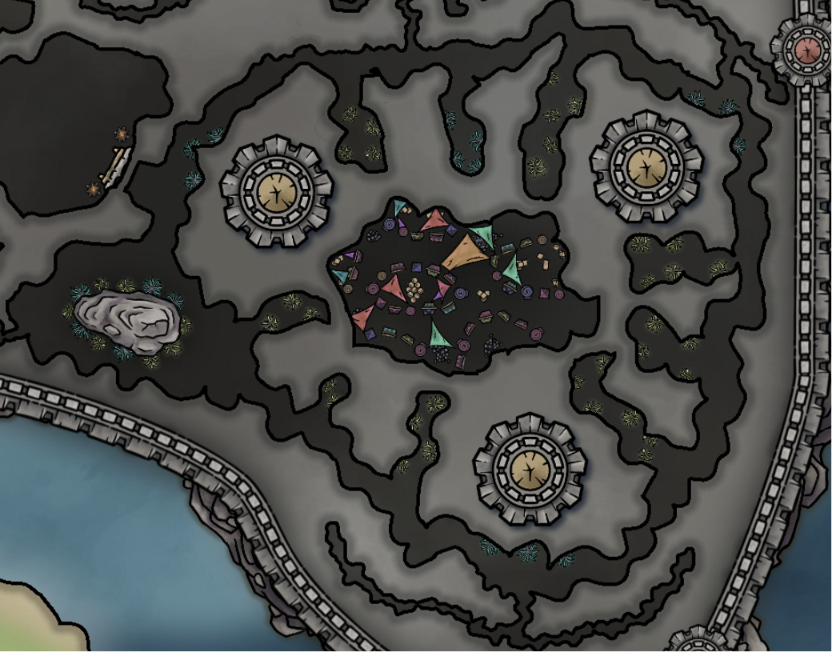
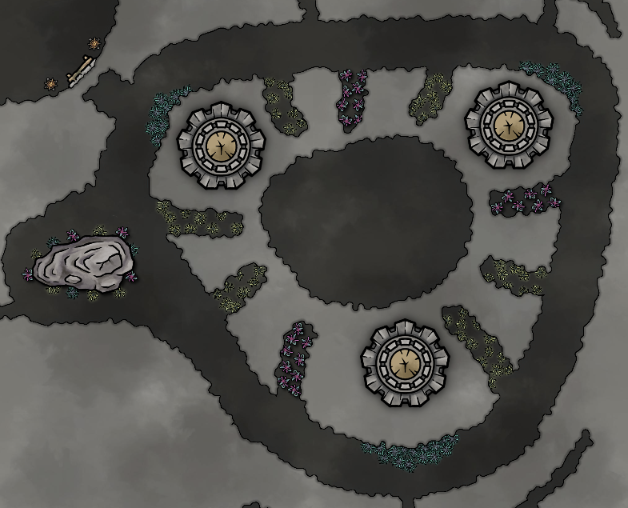
Updated "Clock" puzzle notes

diff --git a/Roll for Resilience/Unique Mechanics/The Collapse of Central Stage/Clock Puzzle.md b/Roll for Resilience/Unique Mechanics/The Collapse of Central Stage/Clock Puzzle.md
@@ -1,8 +1,43 @@
 ## Description
-Within the [[Eastern Tunnel System]] of the [[Nervios Tunnels]], an inscription reads:
-> ***The Boulder a clock, the moss the time. Tunnels serve as hands,  ***
+> [!info] This puzzle is a color matching spatial puzzle. The players must use the clues available and find the correct tunnel out.
+### Inscription
+On the wall across the entrance from [[Eastern Tunnel System]], an inscription reads:
+> ***The boulder a clock
+> The moss the time
+> The gate sits at noon
+> Seek out the broken hand and knock thrice***
+
+Beneath the inscription, a large patch of blue moss grows on the floor and lower cave wall. 
+### Entrance Mural
+On the backside of the entrance door is a less grandiose and more recent mural of the [[Rebellion Symbol]]. 
+![[rebellionSymbol.png|300]]
+### Boulder
+To the right of the entrance is a open chamber with a large boulder in the center. A distinct pattern of red, blue, and yellow moss grows on the skirts between the boulder and the floor. On the southern edge of the boulder, another image of the [[rebellionSymbol.png|Symbol of the Rebellion]] is painted above a patch of blue moss. Starting from the blue moss and symbol and travelling clockwise around the boulder, the pattern of moss is as follows:
+> **Blue** -> yellow -> yellow -> red -> **Blue** -> red -> yellow -> yellow -> **Blue** -> red -> yellow -> red -> *Beginning*
+
+### Moss and Tunnels
+Travelling around the loop of the tunnels, a distinct pattern emerges. A large patch of blue moss is followed by three center-inset tunnels. Within these inner tunnels, either all red or all yellow moss grows wildly. After the set of three tunnels, another patch of blue moss grows on the inner walls of the loop. This pattern continues twice more, until it meets back at the start. The pattern, starting at the inscription and blue moss and travelling clockwise around the loop is as follows:
+> **Blue** -> yellow -> yellow -> red -> **Blue** -> red -> yellow -> red -> **Blue** -> red -> yellow -> red -> *Beginning*
+
 ## Rules
+*All information the players need to solve the puzzle is provided to them. The rules below exist for the GM's discretion*
+- If players find the correct tunnel out and knock three times, they are 
 
 > [!success]- ## Solution
-> sdf
+> This puzzle is solved by analyzing the pattern of the colored moss around the boulder and comparing it to the colored moss that grows around the loop and in the tunnels. At one of the inner facing tunnels, the color does not match the pattern of the boulder. The inscription helps explain this while orienting the party: 
+> > ***The boulder a clock***: The boulder is a tool for orientation.
+> > ***The moss the time***: There are 12 distinct patches of moss, reflecting the 12 hours on a clock
+> > ***The gate sits at noon***: The [[Rebellion Symbol]] exists on both the boulder, and the entrance door. Setting it as "noon" helps orient the 12 moss patches on the boulder to the 12 moss patches in the tunnel loop.
+> > ***Seek out the broken hand and knock thrice***: The "hand" is one of the inner-facing tunnels. "Broken" refers to how the color of the moss in this tunnel does not match its respective color on the boulder. Knock thrice literally means to knock three times on the wall of the tunnel. Doing so, a hidden door opens into [[The Burrow]] 
+>___
+>**Comparing Moss**
+>Starting from the [[Rebellion Mural]] and travelling clockwise around the boulder/loop, the players find two very similar patterns.
+> ### **Boulder Pattern**: 
+> > **Blue** -> yellow -> yellow -> red -> **Blue** -> red -> yellow -> yellow -> **Blue** -> red -> yellow -> red
+> ### **Tunnel Loop Pattern**: 
+> > **Blue** -> yellow -> yellow -> red -> **Blue** -> red -> yellow -> *red* -> **Blue** -> red -> yellow -> red
+> 
+> The tunnel with the red moss (6th tunnel clockwise from inscription) is red while on the boulder the moss is yellow. This signifies that this "hand" is broken and the proper 
 
+
+![[eastern_tunnel_map.png]]

diff --git a/Roll for Resilience/StorytellerSuite/Stories/Nervios Campaign/Locations/Nervios Underground/Eastern Tunnel System.md b/Roll for Resilience/StorytellerSuite/Stories/Nervios Campaign/Locations/Nervios Underground/Eastern Tunnel System.md
@@ -7,19 +7,22 @@ status: Active
 type: district
 id: mr9n3hbsi0j0vb
 ---
-
 ## Description
-A series of wide open tunnels that run under the eastern side of the [[Nervios]] peninsula. The tunnels loop around [[The Burrow]] and eventually connect to a crypt underneath the [[Church of Aequorism|Aequor]] Cathedral.
+A series of wide open tunnels that run under the eastern side of the [[Nervios]] peninsula. The tunnels loop around the outsides of [[The Burrow]].
 
-As you enter from the [[Rebellion Mural|Rebellion Mural Door]], the air shifts from cool and humid to warm and stuffy. The tunnels here are much larger then the [[Nervios Tunnels|Western Tunnel System]]; the walls colossal and smooth. The ground beneath you has been worn down from years of foot travel and it is clear these paths remain active and busy. Furthermore, the bottom and top of the walls are lined neatly and densely with glow moss, providing clear lighting to see the path ahead. Once each member of the party has entered, the door begins to creak and rumble as it rolls back into place, sealing it yet again. The [[Rebellion Symbol]] is painted onto this side of the door as well, albeit not as grandiosely. 
+As you enter from the [[Rebellion Mural|Rebellion Mural Door]], the air shifts from cool and humid to warm and stuffy. The tunnels here are much larger then the [[Nervios Tunnels|Western Tunnel System]]; the walls colossal and smooth. The ground beneath you has been worn down from years of foot travel and it is clear these paths remain active and busy. Emerald green vines line the walls, woven into itself creating an intricate lace pattern. From the vines hang glowing white lotus flowers, lighting the path ahead. Once each member of the party has entered, the door begins to creak and rumble as it rolls back into place, sealing it yet again. The [[Rebellion Symbol]] is painted onto this side of the door as well, albeit not as grandiosely. 
 
 In front of you, directly across the door, an inscription in the wall reads:
-> "***The Boulder Your Compass
->  The Moss Your Guide***"
+> "***The Boulder a Clock
+>  The Moss the Time
+>  The Gate Sits At Noon
+>  Seek the broken hand and knock thrice***"
 
-Beneath the inscription, a small patch of [[The Seafarers Herb|Seafarers Herb]] grow at about knee-height. To your left, the path continues on and continues around a bend. To your right, a giant boulder sits in the center of a vast chamber. Planted neatly around the boulder grows a pattern of [[Yellow Noble Bloom]] and [[The Seafarers Herb|Seafarers Herb]]. Drawn onto the boulders southern edge is a small image of the [[Rebellion Symbol]]. 
+Beneath the inscription, a small patch of blue moss grows on the walls to roughly knee-height. To your left, the path continues on and continues around a bend. To your right, a giant boulder sits in the center of a vast chamber. Growing neatly around the boulders bottom edge is a distinct pattern of blue, yellow, and red moss. Drawn onto the boulders southern face is a small image of the [[Rebellion Symbol]], the same as on the entrance door. The pattern of the moss is as follows, starting from the Rebellion Symbol and heading clockwise:
+> **Blue** -> yellow -> yellow -> red -> **Blue** -> red -> yellow -> yellow -> **Blue** -> red -> yellow -> red
 
-Whether the ravels to the left or to the right, the tunnels loop back to the beginning mural door. Along the inner wall of the path, the party passes three sets of three tunnels moving towards the center of the larger loop. These tunnels are well lit, and each contain a series of either [[Yellow Noble Bloom]] plants, or [[The Seafarers Herb|Seafarers Herb]] plants.
+Whether the party travels to the left or to the right, the tunnels are a loop and the party ends up back to the entrance door. As they travel around the loop, they come across a unique pattern of moss, colored blue, yellow, and red. Blue moss sits on the inner wall of the loop, while the red and yellow moss fills tunnels that point in towards the center. The pattern is as follows, travelling clockwise starting at the inscription with blue moss:
+> **Blue** -> yellow -> yellow -> red -> **Blue** -> red -> yellow -> red -> **Blue** -> red -> yellow -> red
 
 > [!info] ### For the solution refer to [[Clock Puzzle]]
 

diff --git a/Roll for Resilience/StorytellerSuite/Stories/Nervios Campaign/Scenes/The Collapse of Central Stage.md b/Roll for Resilience/StorytellerSuite/Stories/Nervios Campaign/Scenes/The Collapse of Central Stage.md
@@ -32,10 +32,9 @@ The [[Nervios Tunnels]] are unknown by the general public, so any escape paths m
 
 Once the party travels through the [[Flora Tunnels]] and the [[Rune Tunnels]] and completes their respective puzzles, they can unlock a hidden door at the [[Rebellion Mural]].
 ### 3. Entering the [[Eastern Tunnel System]]
-
 > [!info] This section of tunnels acts a puzzle and secret entrance to [[The Burrow]]. For more details, refer to [[Eastern Tunnel System]] and [[Clock Puzzle]].
 
-After opening the hidden door at the [[Rebellion Mural]], a separate series of tunnels is revealed. These tunnels are much wider, contain higher ceilings, and have many intricate rock and stalagmite formations. The walls are smooth and lined intricately with glow moss. The players are immediately met with a split in the path, which forks off into two directions. 
+After opening the hidden door at the [[Rebellion Mural]], a separate series of tunnels is revealed. These tunnels are much wider, contain higher ceilings, and have many intricate rock and stalagmite formations. The walls are smooth and lined intricately with glowing moss. The players are immediately met with a split in the path, which forks off into two directions. 
 
 ### 4. Entering [[The Burrow]].
 After completing the [[Clock Puzzle]] in the [[Eastern Tunnel System]], players can enter into [[The Burrow]].